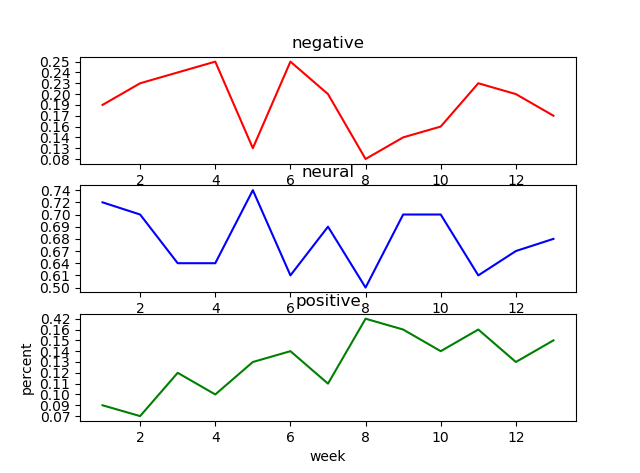
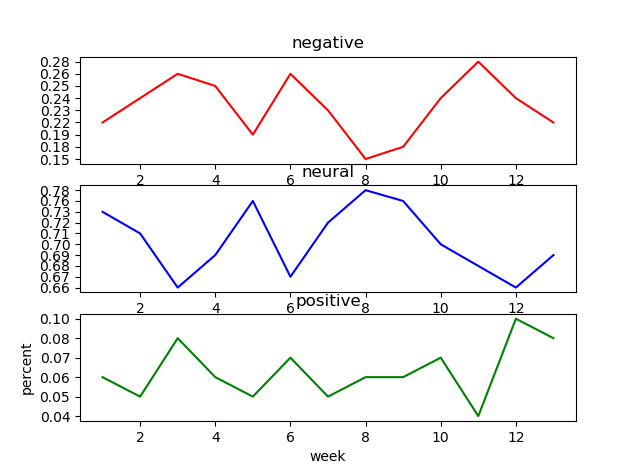
other exper and dic add

diff --git a/experiment/other/show_week.py b/experiment/other/show_week.py
@@ -1,0 +1,197 @@
+#! /bin/env python
+# -*- coding: utf-8 -*-
+"""
+综合所有数据在13周内的情感分析
+"""
+import jieba
+import numpy as np
+from gensim.models.word2vec import Word2Vec
+from gensim.corpora.dictionary import Dictionary
+from keras.preprocessing import sequence
+
+import yaml
+from keras.models import model_from_yaml
+np.random.seed(1337)  # For Reproducibility
+import sys
+sys.setrecursionlimit(1000000)
+
+jieba.load_userdict('../../data/introductions.txt')
+jieba.load_userdict('../../data/emotions.txt')
+jieba.load_userdict('../knowledge_content/units/unit1.txt')
+jieba.load_userdict('../knowledge_content/units/unit2.txt')
+jieba.load_userdict('../knowledge_content/units/unit3.txt')
+jieba.load_userdict('../knowledge_content/units/unit4.txt')
+jieba.load_userdict('../knowledge_content/units/unit5.txt')
+jieba.load_userdict('../knowledge_content/units/unit6.txt')
+jieba.load_userdict('../knowledge_content/units/unit7.txt')
+
+import numpy as np  
+import matplotlib.pyplot as plt  
+import matplotlib.gridspec as gridspec
+
+# 定义参数
+maxlen = 100
+
+def create_dictionaries(model=None,
+                        combined=None):
+    ''' Function does are number of Jobs:
+        1-创建索引映射的单词
+        2-创建一个单词到矢量映射
+        3-转换训练和测试词典
+    '''
+    if (combined is not None) and (model is not None):
+        gensim_dict = Dictionary()
+        gensim_dict.doc2bow(model.wv.vocab.keys(),
+                            allow_update=True)
+        #  freqxiao10->0 所以k+1
+        w2indx = {v: k+1 for k, v in gensim_dict.items()}#所有频数超过10的词语的索引,(k->v)=>(v->k)
+        w2vec = {word: model[word] for word in w2indx.keys()}#所有频数超过10的词语的词向量, (word->model(word))
+
+        def parse_dataset(combined): # 闭包-->临时使用
+            ''' Words become integers
+            '''
+            data=[]
+            for sentence in combined:
+                new_txt = []
+                for word in sentence:
+                    try:
+                        new_txt.append(w2indx[word])
+                    except:
+                        new_txt.append(0) # freqxiao10->0
+                data.append(new_txt)
+            return data # word=>index
+        combined=parse_dataset(combined)
+        combined= sequence.pad_sequences(combined, maxlen=maxlen)#每个句子所含词语对应的索引，所以句子中含有频数小于10的词语，索引为0
+        return w2indx, w2vec,combined
+    else:
+        print ('没有提供数据...')
+
+def loadStopWords():   
+    
+    stop = [line.strip()  for line in open('../../data/stopWords.txt', 'r', encoding='utf-8').readlines() ]   
+    #print("type(loadStopWords_stop)",type(stop))
+    return stop  
+
+def input_transform(string):
+    words=jieba.lcut(string)
+    stopWords = loadStopWords()
+    leftWords = []
+    for i in words:
+        if(i not in stopWords):
+            leftWords.append(i)
+    text_str = leftWords
+    #print("text_str",text_str)
+    
+    words=np.array(text_str).reshape(1,-1)
+    #载入模型
+    model=Word2Vec.load('../../lstm_test/model/Word2vec_model.pkl')
+    _,_,combined=create_dictionaries(model,words)
+    return combined
+
+def lstm_predict(string,week):
+    #print ('loading model...')
+    with open('../../lstm_test/model/lstm.yml', 'r') as f:
+        yaml_string = yaml.load(f)
+    model = model_from_yaml(yaml_string)
+
+    #print ('loading weights...')
+    model.load_weights('../../lstm_test/model/lstm.h5')
+    model.compile(loss='categorical_crossentropy',
+                  optimizer='adam',metrics=['accuracy'])
+
+    neg = 0
+    neu = 0
+    pos = 0
+    sum = 0
+    with open(string ,'r', encoding='utf-8') as ff:
+        for line in ff.readlines():
+            data=input_transform(line)
+            data.reshape(1,-1)
+            #print data
+            result=model.predict_classes(data)
+            choose = result[0]
+            #print(sum+1,choose)
+            if choose==1:
+                pos += 1
+                sum += 1
+            elif choose==0:
+                neu += 1
+                sum += 1
+            else:
+                neg += 1
+                sum += 1
+    print("第",week,"周：")
+    print("sum",sum)
+    print("negative:",neg)
+    print("neural",neu)
+    print("positive",pos)
+    return neg, neu, pos, sum
+
+    '''
+    if sum == 0:
+        print('negative/sum: {:.2%}'.format(0))
+        print('neural/sum: {:.2%}'.format(0))
+        print('positive/sum: {:.2%}'.format(0))
+        return '{:.2f}'.format(0),'{:.2f}'.format(0),'{:.2f}'.format(0)
+    else:
+        print('negative/sum: {:.2%}'.format(neg/sum))
+        print('neural/sum: {:.2%}'.format(neu/sum))
+        print('positive/sum: {:.2%}'.format(pos/sum))
+        return '{:.2f}'.format(neg/sum),'{:.2f}'.format(neu/sum),'{:.2f}'.format(pos/sum)
+    '''
+
+if __name__=='__main__':
+     
+    neg = [ 0 for i in range(13)]
+    neu = [ 0 for i in range(13)]
+    pos = [ 0 for i in range(13)]
+    sum = [ 0 for i in range(13)]
+    for i in range(1,14):
+        if(i<10):
+            route = '../weeks/0'+str(i)+'.txt'
+        else:
+            route = '../weeks/'+str(i)+'.txt'
+        result = lstm_predict(route,i)
+        neg[i-1] = result[0]
+        neu[i-1] = result[1]
+        pos[i-1] = result[2]
+        sum[i-1] = result[3]
+    
+    print("negative",neg)
+    print("neural",neu)
+    print("positive",pos)
+    print("sum",sum)  
+'''
+    #设置x,y轴
+    x = [x for x in range(1,14)]
+    #定义figure
+    plt.figure()
+    #分隔figure,3行3列
+    gs = gridspec.GridSpec(3, 3)
+    ax1 = plt.subplot(gs[0, :])
+    ax2 = plt.subplot(gs[1, :])
+    ax3 = plt.subplot(gs[2, :])
+    #绘制图像
+    ax1.plot(x, neg, color='red')
+    ax1.set_title('negative')
+    ax2.plot(x, neu, color='blue')
+    ax2.set_title('neural')
+    ax3.plot(x, pos, color='green')
+    ax3.set_title('positive')
+    plt.xlabel("week")#X轴标签
+    plt.ylabel("percent")#Y轴标签
+    plt.show()
+
+    plt.title('Result Analysis')
+    plt.plot(x, pos, color='green', label='positive')
+    plt.plot(x, pos, 'go')
+    plt.plot(x, neg, color='red', label='negative')
+    plt.plot(x, neg, 'ro')
+    plt.plot(x, neu,  color='blue', label='neural')
+    plt.plot(x, neu, 'bo')
+    plt.legend() # 显示图例
+    #plt.plot(x,y)
+    plt.xlabel("week")#X轴标签
+    plt.ylabel("percent")#Y轴标签 
+    plt.show()  
+'''

diff --git a/experiment/other/test.py b/experiment/other/test.py
@@ -1,0 +1,43 @@
+"""
+综合所有数据在13周内的情感分析
+1）每周独立进行分析，即每周的情感分析仅包括本周的数据
+2）周次累计进行分析，即每周的情感分析数据包含了本周包括之前周次的数据
+"""
+import numpy as np  
+import matplotlib.pyplot as plt  
+import matplotlib.gridspec as gridspec
+
+neg = [107, 85, 168, 213, 83, 181, 107, 79, 92, 119, 95, 117, 141]
+neu = [357, 249, 430, 587, 336, 475, 342, 399, 381, 351, 230, 319, 444]
+pos = [28, 18, 54, 47, 23, 52, 23, 33, 30, 33, 15, 46, 54]
+sum1 = [492, 352, 652, 847, 442, 708, 472, 511, 503, 503, 340, 482, 639]
+
+pos_rate = [ 0 for i in range(13)]
+neg_rate = [ 0 for i in range(13)]
+pos_rate1 = [ 0 for i in range(13)]
+neg_rate1 = [ 0 for i in range(13)]
+for i in range(13):
+	pos_rate[i] = float('{:.4f}'.format(sum(pos[:i+1])/sum(sum1[:i+1])))
+	neg_rate[i] = float('{:.4f}'.format(sum(neg[:i+1])/sum(sum1[:i+1])))
+	pos_rate1[i] = float('{:.4f}'.format(pos[i]/sum1[i]))
+	neg_rate1[i] = float('{:.4f}'.format(neg[i]/sum1[i]))
+
+
+#设置x,y轴
+x = [x for x in range(1,14)]
+#定义figure
+plt.figure()
+#分隔figure,3行3列
+gs = gridspec.GridSpec(2, 3)
+ax1 = plt.subplot(gs[0, :])
+ax2 = plt.subplot(gs[1, :])
+#绘制图像
+ax1.plot(x, neg_rate, color='red')
+ax1.plot(x, neg_rate1, color='blue')
+ax1.set_title('negative')
+ax2.plot(x, pos_rate, color='red')
+ax2.plot(x, pos_rate1, color='blue')
+ax2.set_title('positive')
+plt.xlabel("week")#X轴标签
+plt.ylabel("percent")#Y轴标签
+plt.show()

diff --git a/experiment/difficult_degree/read_difdegree.py b/experiment/difficult_degree/read_difdegree.py
@@ -187,8 +187,7 @@ print("各阶段总成绩：",sco_sum)
 print("各阶段学生总数：",stu_sum)
 '''
 #str=>float
-for i in range(0,13):
-	sco_ave[i] = list(map(float,sco_ave[i]))
+	sco_ave = list(map(float,sco_ave))
 '''
 for i in range(0,13):
 	for j in range(0,3):

diff --git a/experiment/other/README.md b/experiment/other/README.md
@@ -1,0 +1,2 @@
+show_week.py：累计周次的情感分析
+
